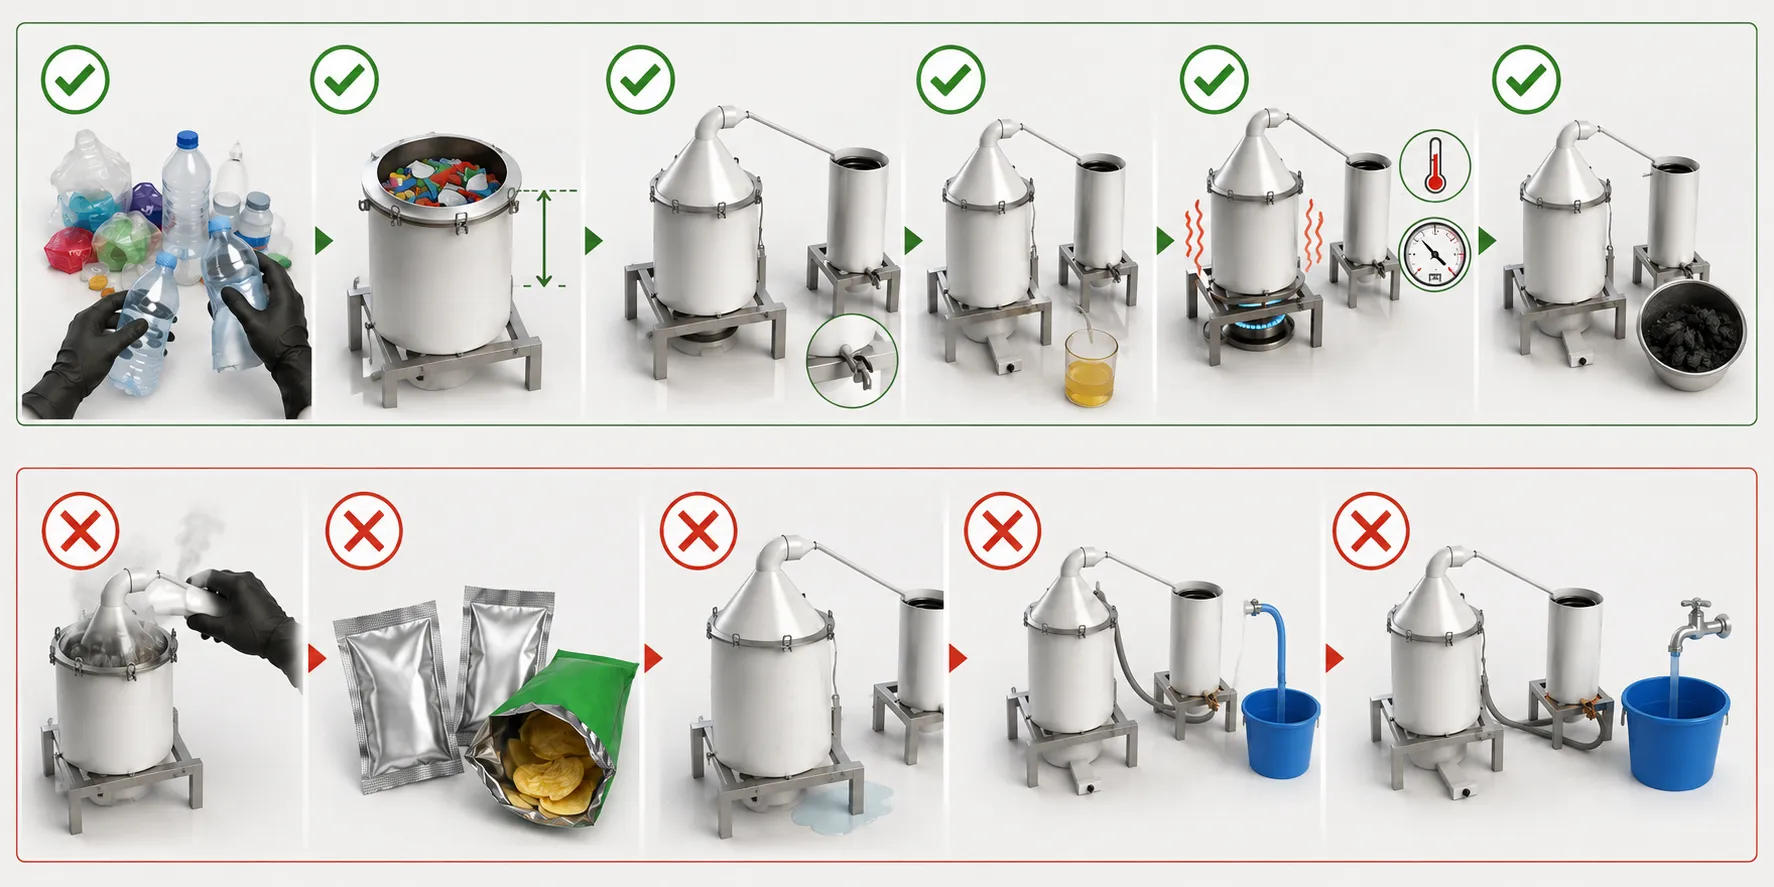
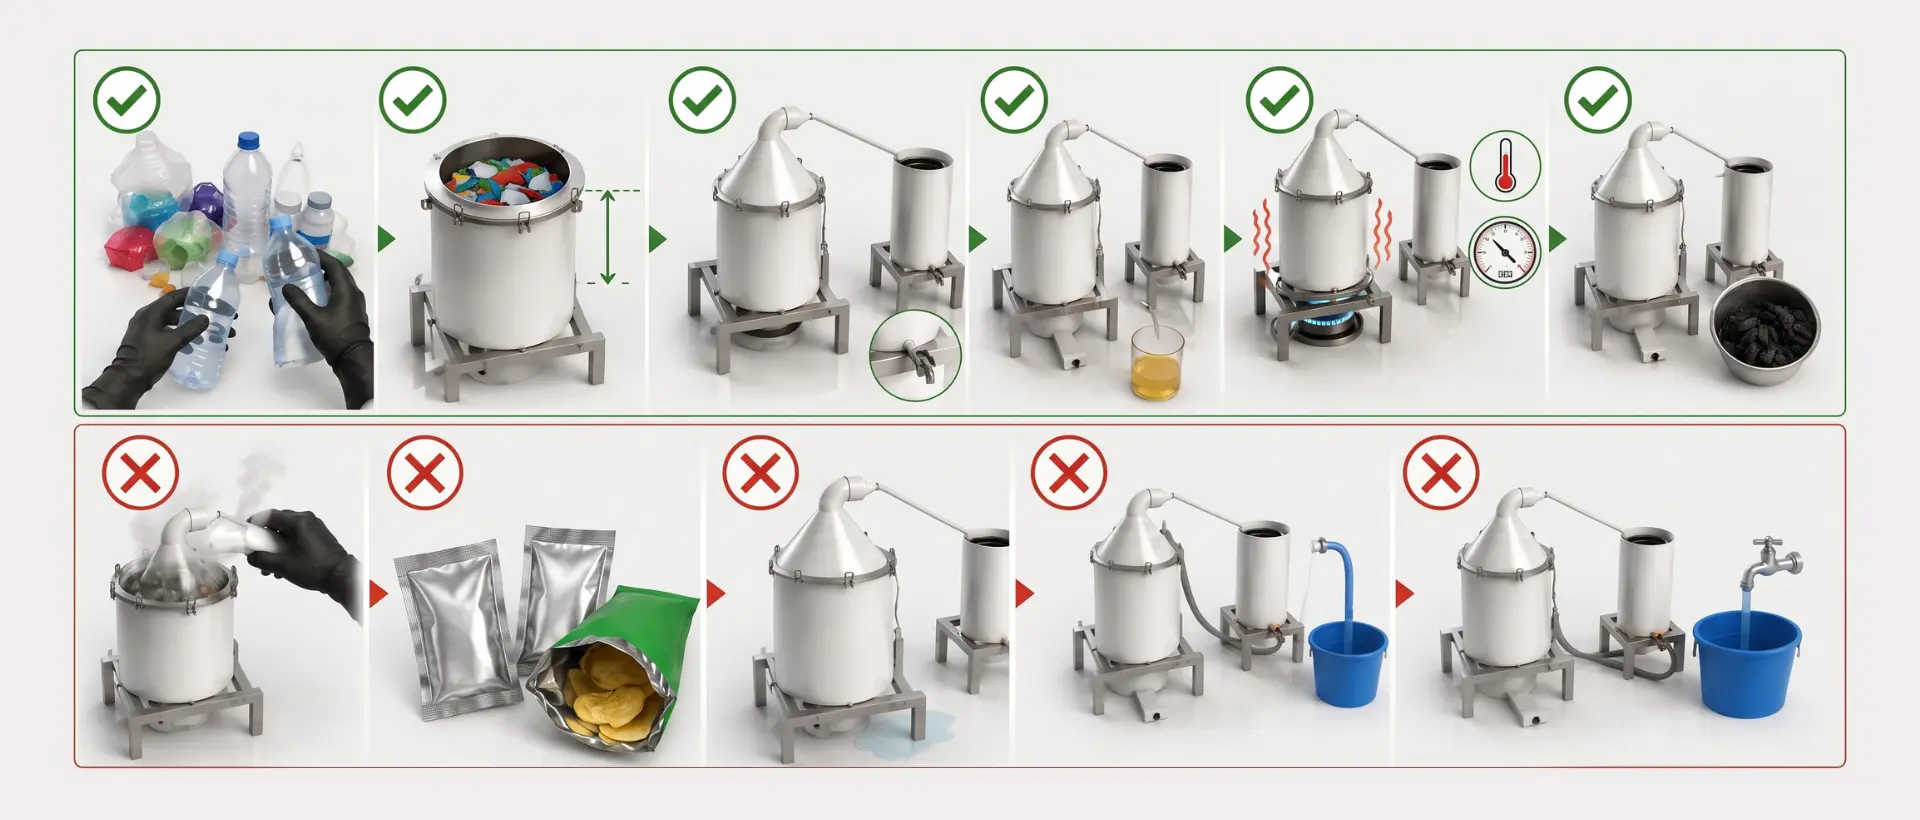
Fix UI Panduan

diff --git a/src/app/(public)/panduan/page.tsx b/src/app/(public)/panduan/page.tsx
@@ -92,19 +92,17 @@ export default function PanduanPage() {
               </div>
             </div>
 
-            <div className="w-full lg:w-1/2">
-              <div className="w-full aspect-video md:aspect-square lg:aspect-[4/3] bg-gray-50 dark:bg-gray-800/50 rounded-2xl border border-gray-200 dark:border-gray-800 overflow-hidden flex items-center justify-center p-4">
-                 <img 
-                  src="/panduan/penting.webp" 
-                  alt="Larangan plastik metalized"
-                  decoding="async"
-                  className="w-full h-full object-contain drop-shadow-sm"
-                  onError={(e) => {
-                    (e.target as HTMLImageElement).style.display = 'none';
-                    (e.target as HTMLImageElement).parentElement!.innerHTML += '<div class="text-gray-400 text-sm font-medium text-center">Foto<br/><span class="text-xs">(Rasio Rekomendasi: 4:3 atau 1:1)</span></div>';
-                  }}
-                />
-              </div>
+            <div className="w-full lg:w-1/2 lg:sticky lg:top-32">
+               <img 
+                src="/panduan/penting.webp" 
+                alt="Larangan plastik metalized"
+                decoding="async"
+                className="w-full h-auto rounded-2xl border border-gray-200 dark:border-gray-800 shadow-sm"
+                onError={(e) => {
+                  (e.target as HTMLImageElement).style.display = 'none';
+                  (e.target as HTMLImageElement).parentElement!.innerHTML += '<div class="w-full aspect-[4/3] bg-gray-50 dark:bg-gray-800/50 rounded-2xl border border-gray-200 dark:border-gray-800 flex items-center justify-center"><div class="text-gray-400 text-sm font-medium text-center">Foto<br/><span class="text-xs">(Rasio Rekomendasi: 4:3 atau 1:1)</span></div></div>';
+                }}
+              />
             </div>
           </div>
         </motion.div>
@@ -121,7 +119,7 @@ export default function PanduanPage() {
               </h2>
             </div>
             
-            <div className="grid lg:grid-cols-2 gap-10 items-center">
+            <div className="grid lg:grid-cols-2 gap-10 items-start">
               <div className="order-2 lg:order-1">
                 <div className="grid gap-4">
                   {[
@@ -147,16 +145,16 @@ export default function PanduanPage() {
                 </div>
               </div>
 
-              <div className="order-1 lg:order-2 w-full aspect-video lg:aspect-[4/3] bg-gray-50 dark:bg-gray-800/50 rounded-2xl border border-gray-200 dark:border-gray-800 overflow-hidden flex items-center justify-center p-4">
+              <div className="order-1 lg:order-2 w-full lg:sticky lg:top-32">
                 <img 
                   src="/panduan/skema.webp" 
                   alt="Skema Alat Pirolisis"
                   loading="lazy"
                   decoding="async"
-                  className="w-full h-full object-contain drop-shadow-sm"
+                  className="w-full h-auto rounded-2xl border border-gray-200 dark:border-gray-800 shadow-sm"
                   onError={(e) => {
                     (e.target as HTMLImageElement).style.display = 'none';
-                    (e.target as HTMLImageElement).parentElement!.innerHTML += '<div class="text-gray-400 text-sm font-medium text-center">Foto<br/><span class="text-xs">(Rasio Rekomendasi: 4:3 atau 16:9)</span></div>';
+                    (e.target as HTMLImageElement).parentElement!.innerHTML += '<div class="w-full aspect-[4/3] bg-gray-50 dark:bg-gray-800/50 rounded-2xl border border-gray-200 dark:border-gray-800 flex items-center justify-center"><div class="text-gray-400 text-sm font-medium text-center">Foto<br/><span class="text-xs">(Rasio Rekomendasi: 4:3 atau 16:9)</span></div></div>';
                   }}
                 />
               </div>
@@ -178,16 +176,16 @@ export default function PanduanPage() {
               </h2>
             </div>
             
-            <div className="w-full aspect-[4/3] md:aspect-video lg:aspect-[21/9] bg-gray-50 dark:bg-gray-800/50 rounded-2xl border border-gray-200 dark:border-gray-800 overflow-hidden flex items-center justify-center p-4 mb-10">
+            <div className="w-full mb-10">
               <img 
                 src="/panduan/aman.webp" 
                 alt="Ilustrasi Cara Pakai Aman"
                 loading="lazy"
                 decoding="async"
-                className="w-full h-full object-contain drop-shadow-sm"
+                className="w-full h-auto rounded-2xl border border-gray-200 dark:border-gray-800 shadow-sm"
                 onError={(e) => {
                   (e.target as HTMLImageElement).style.display = 'none';
-                  (e.target as HTMLImageElement).parentElement!.innerHTML += '<div class="text-gray-400 text-sm font-medium text-center">Foto<br/><span class="text-xs">(Rasio Rekomendasi: 16:9 atau 21:9 Widescreen)</span></div>';
+                  (e.target as HTMLImageElement).parentElement!.innerHTML += '<div class="w-full aspect-[21/9] bg-gray-50 dark:bg-gray-800/50 rounded-2xl border border-gray-200 dark:border-gray-800 flex items-center justify-center"><div class="text-gray-400 text-sm font-medium text-center">Foto<br/><span class="text-xs">(Rasio Rekomendasi: 16:9 atau 21:9 Widescreen)</span></div></div>';
                 }}
               />
             </div>
